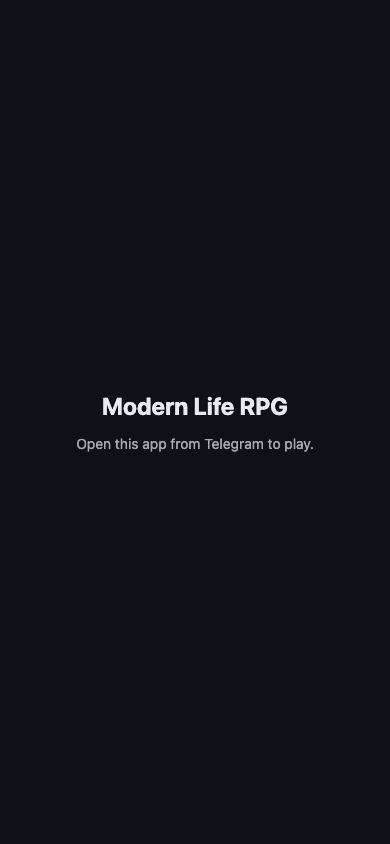
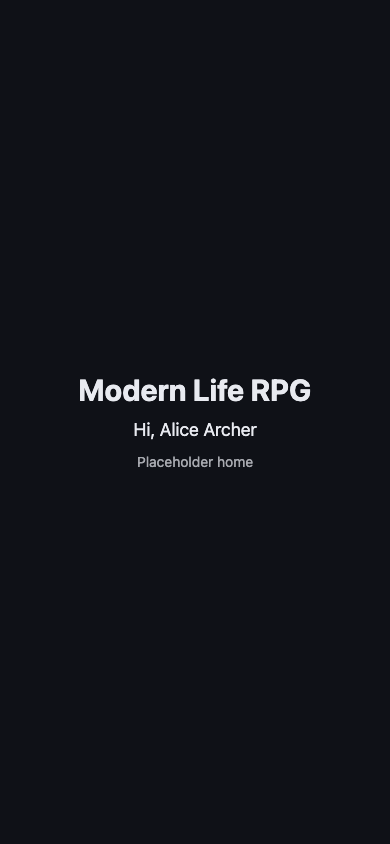
fix(S03): S01 e2e reaches the real home, gate mock initData on DEV
- e2e/smoke.spec.ts signs in as user A and asserts home-only content; docs/screens/S01.png re-captured (S01 regression from the S03 auth gate).
- VITE_MOCK_INIT_DATA is used only in DEV so prod bundles never carry it.
- playwright runs with one worker: specs reset the shared e2e DB.
- TODO lines for proxy headers, initData max_age, reset rate limit, ratelimit prune.

Changed region(s): [[0.1846, 0.4313, 0.8, 0.5545]]

diff --git a/frontend/src/lib/telegram/telegram.test.ts b/frontend/src/lib/telegram/telegram.test.ts
@@ -4,6 +4,7 @@ import {
   MockAdapter,
   TmaAdapter,
   createTelegramAdapter,
+  mockInitData,
   getTelegram,
   setTelegram,
   type TelegramAdapter,
@@ -93,6 +94,29 @@ describe('createTelegramAdapter', () => {
       },
     });
     expect(createTelegramAdapter(win)).toBeInstanceOf(MockAdapter);
+  });
+});
+
+describe('VITE_MOCK_INIT_DATA', () => {
+  afterEach(() => {
+    vi.unstubAllEnvs();
+  });
+
+  test('feeds the MockAdapter in DEV', () => {
+    vi.stubEnv('DEV', true);
+    vi.stubEnv('VITE_MOCK_INIT_DATA', 'user=dev&hash=h');
+    expect(mockInitData()).toBe('user=dev&hash=h');
+    expect(createTelegramAdapter(fakeWindow()).getInitData()).toBe('user=dev&hash=h');
+  });
+
+  test('is ignored outside DEV (production build)', () => {
+    vi.stubEnv('DEV', false);
+    vi.stubEnv('PROD', true);
+    vi.stubEnv('VITE_MOCK_INIT_DATA', 'user=leak&hash=h');
+    expect(mockInitData()).toBe('');
+    const adapter = createTelegramAdapter(fakeWindow());
+    expect(adapter).toBeInstanceOf(MockAdapter);
+    expect(adapter.getInitData()).toBe('');
   });
 });
 

diff --git a/e2e/smoke.spec.ts b/e2e/smoke.spec.ts
@@ -1,11 +1,14 @@
-import { expect, test } from '@playwright/test';
+import { USERS, expect, test } from './fixtures/telegram';
 
 test.use({ viewport: { width: 390, height: 844 } });
 
-test('@S01 placeholder home renders', async ({ page }) => {
+test('@S01 placeholder home renders', async ({ page, telegram }) => {
+  // Since S03 the home sits behind Telegram auth, so sign in as user A to reach it.
+  await telegram('A');
   await page.goto('/');
-  await expect(
-    page.getByRole('heading', { name: 'Modern Life RPG' }),
-  ).toBeVisible();
+  // "Placeholder home" exists only on the home screen, not on the auth status screens.
+  await expect(page.getByText('Placeholder home')).toBeVisible();
+  await expect(page.getByTestId('user-greeting')).toContainText(USERS.A.first_name);
+  await expect(page.getByRole('heading', { name: 'Modern Life RPG' })).toBeVisible();
   await page.screenshot({ path: 'docs/screens/S01.png' });
 });

diff --git a/frontend/src/lib/telegram/index.ts b/frontend/src/lib/telegram/index.ts
@@ -15,7 +15,16 @@ export function createTelegramAdapter(
 ): TelegramAdapter {
   const webApp = detectWebApp(win);
   if (webApp) return new TmaAdapter(webApp);
-  return new MockAdapter({ initData: import.meta.env.VITE_MOCK_INIT_DATA ?? '' });
+  return new MockAdapter({ initData: mockInitData() });
+}
+
+/**
+ * Dev-only signed initData for the plain-browser MockAdapter. The DEV check is written inline
+ * so a production build statically drops the branch (and the VITE_MOCK_INIT_DATA string with
+ * it); outside DEV the mock is always empty.
+ */
+export function mockInitData(): string {
+  return import.meta.env.DEV ? (import.meta.env.VITE_MOCK_INIT_DATA ?? '') : '';
 }
 
 let current: TelegramAdapter | null = null;

diff --git a/playwright.config.ts b/playwright.config.ts
@@ -8,6 +8,8 @@ export default defineConfig({
   testDir: './e2e',
   timeout: 30_000,
   retries: 0,
+  // Every spec resets the one shared e2e database, so spec files must not run in parallel.
+  workers: 1,
   reporter: [['list']],
   use: {
     baseURL: process.env.BASE_URL ?? 'http://localhost:3000',

diff --git a/docs/PROGRESS.md b/docs/PROGRESS.md
@@ -28,3 +28,7 @@ surprising: validator messages never interpolated secrets; the leak was pydantic
 done: validate_init_data (compare_digest, 24h + 5min future skew, dup keys, strict hash), HS256 JWT (alg/iss/aud pinned, exp via app clock), /auth/telegram (upsert on tg_user_id, uk/en locale, per-IP 30/min) + /auth/me, core/deps current_user (Bearer only, 30 writes/min/user -> 429), test-only /api/test/reset (404 unless APP_ENV=test, hidden from OpenAPI, _e2e/_test DB guard, JWT required, TRUNCATE CASCADE); frontend TelegramAdapter (Tma over WebApp or SDK bridge, Mock), in-memory API client, AuthProvider/AuthGate; e2e fixture signs real initData; check-stage S03 passes.
 left: nothing in scope; TODO lines for playwright workers, proxy headers, i18n, character creation.
 surprising: FastAPI 0.165 wraps included routers, so the route-walk test flattens _IncludedRouter.effective_route_contexts(); db_guard moved to app/core (tests re-export); App.tsx/App.test.tsx and schema.d.ts touched.
+
+## 2026-11-21 S03 review fix-up (round 2) + S01 regression fix
+done: S01 regression: e2e/smoke.spec.ts now signs in as user A via the telegram fixture and asserts "Placeholder home" + greeting (not the h1 shared with the no-Telegram screen); S01.png re-captured showing the real home. VITE_MOCK_INIT_DATA is read only when import.meta.env.DEV (inline, so prod builds drop it; verified a marker is absent from a prod bundle) + unit tests. playwright workers: 1. 4 TODO lines. check-stage S01 and S03 pass.
+surprising: the DB-touching smoke spec raced auth.spec across parallel workers (reset truncated the other worker's user -> 401), so playwright.config.ts got workers: 1 (resolves that TODO line).

diff --git a/docs/TODO.md b/docs/TODO.md
@@ -17,8 +17,10 @@
 - migrations/env.py: pin READ COMMITTED on the migration engine for consistency.
 - anyone with a local DB from 603d5ff should rebuild it (downgrade base && upgrade head) to get ck_reward_quantity_remaining_within_limit.
 - core/config.py: custom-error-type fallback drops ctx and downgrades a mixed error list entirely; cosmetic.
-- playwright.config.ts: e2e specs share one DB and reset it per test; set `workers: 1` (or fullyParallel false + serial projects) before a second DB-touching spec file lands.
-- prod: login rate limit keys on request.client.host; run uvicorn with --proxy-headers/--forwarded-allow-ips for Railway, or all users share one 30/min login bucket.
+- prod: login rate limit keys on request.client.host; run uvicorn with --proxy-headers and --forwarded-allow-ips limited to Railway's proxy range (never '*', which lets any client spoof X-Forwarded-For and dodge the limit), or all users share one 30/min login bucket.
 - features/auth strings (AuthGate, UserGreeting) are hard-coded English; move them to i18n in S04.
 - /auth/telegram creates only the user row; /auth/me returns character=null until S05 onboarding creates the character (+6 attribute rows).
 - InsecureKeyLengthWarning in pytest: DEV_JWT_SECRET (and .env.example JWT_SECRET) is 24 bytes; consider a >=32-byte dev default.
+- auth: consider a shorter login max_age for initData than 24h to narrow the replay window.
+- POST /api/test/reset takes a write-rate-limit token before reset_all() clears the limits; harmless today.
+- core/ratelimit.py: prune is O(n) once past 10k keys, and in-memory limits multiply with more uvicorn workers (ARCHITECTURE assumes one worker).
